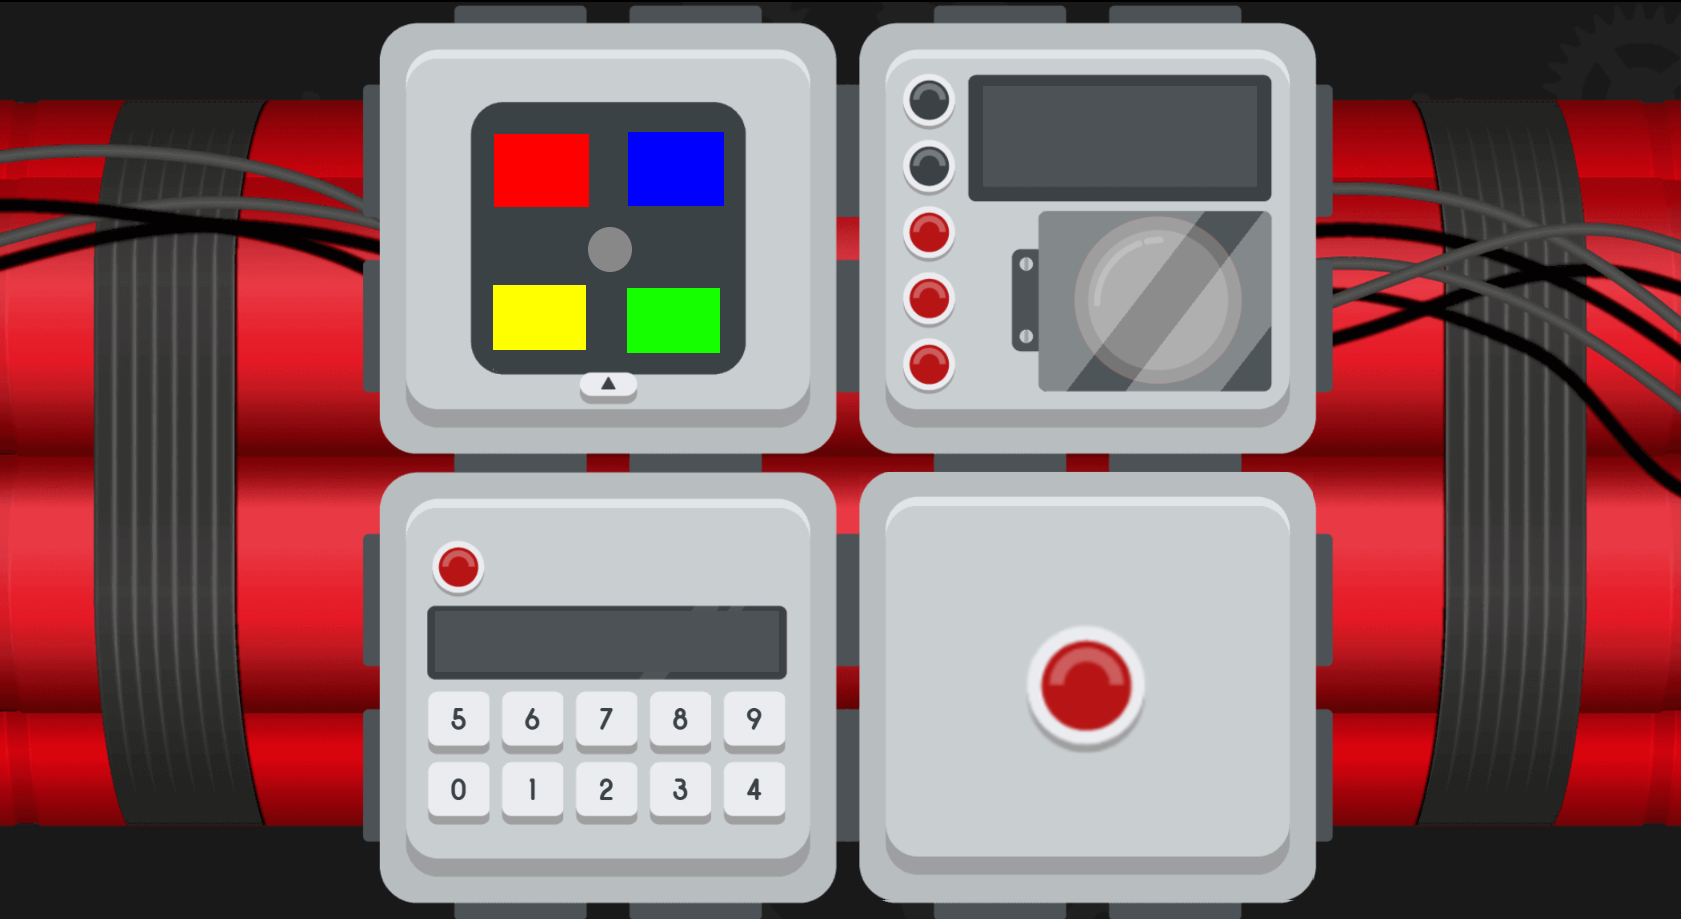
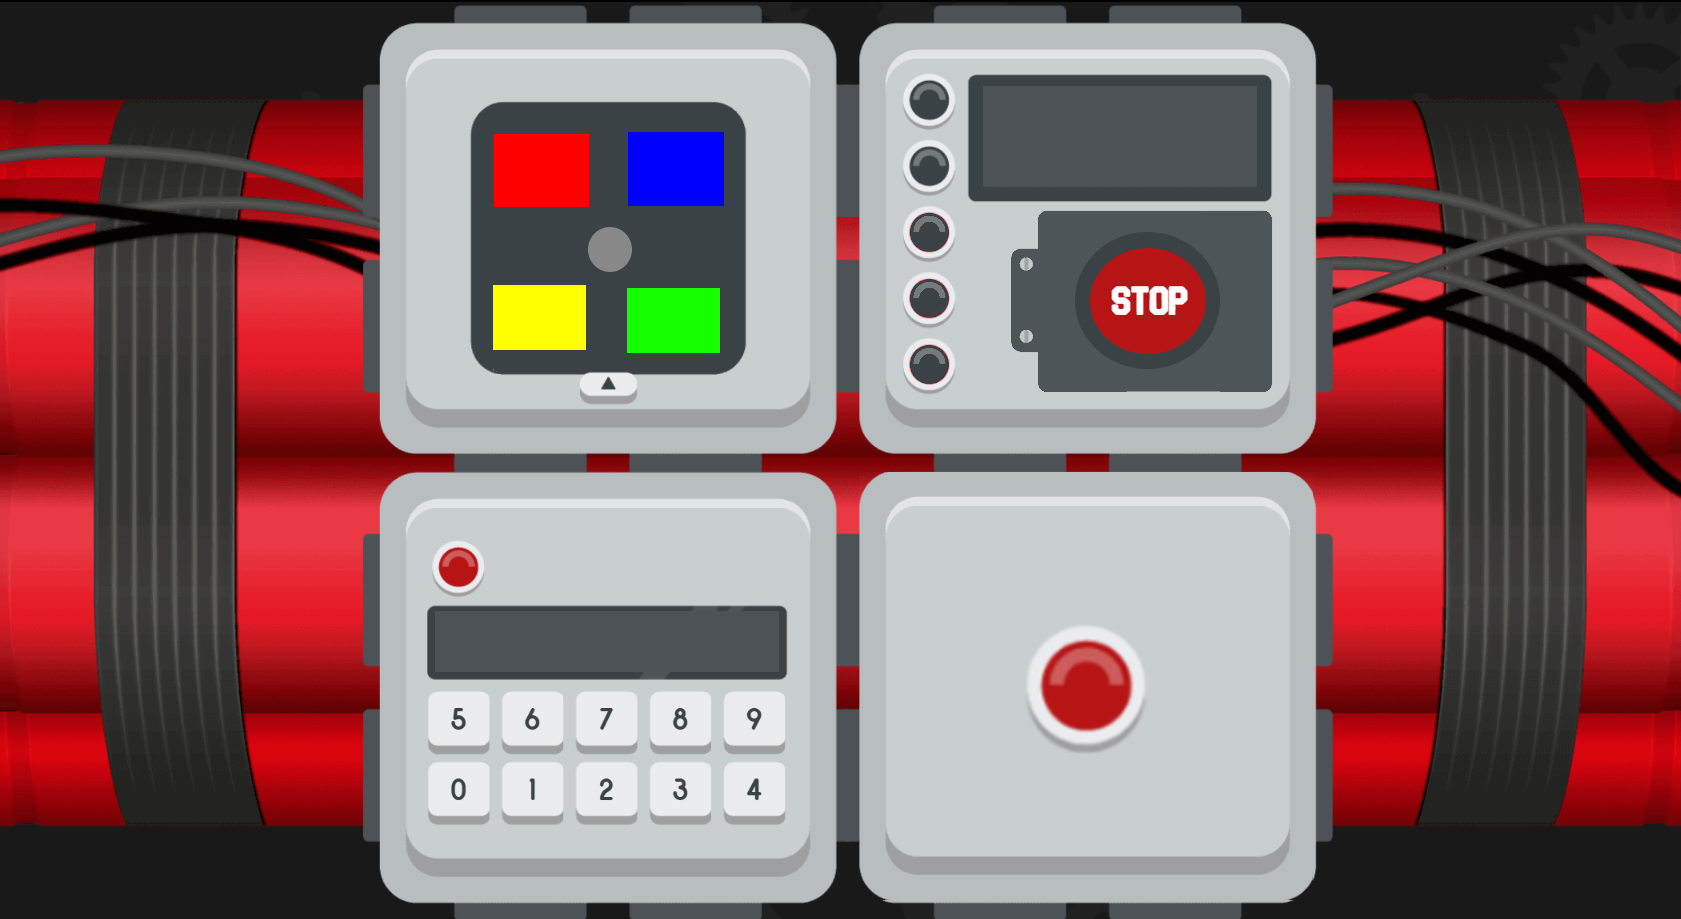
Update Codice Disinnesco
-Aggiunta immagine esplosione

Changed region(s): [[0.6187, 0.2133, 0.7733, 0.4266], [0.5259, 0.3047, 0.5877, 0.4266], [0.5259, 0.2133, 0.5877, 0.2742]]

diff --git a/DisinnescoBomba/core/src/main/java/io/github/some_example_name/Level.java b/DisinnescoBomba/core/src/main/java/io/github/some_example_name/Level.java
@@ -1,0 +1,41 @@
+package io.github.some_example_name;
+
+public class Level {
+
+    private int codiceDisinnesco;
+    private String coloreDisinnesco;
+    private boolean lampeggiante;
+    private int luciAccese;
+
+    public int getCodiceDisinnesco() {
+        return codiceDisinnesco;
+    }
+
+    public void setCodiceDisinnesco(int codiceDisinnesco) {
+        this.codiceDisinnesco = codiceDisinnesco;
+    }
+
+    public String getColoreDisinnesco() {
+        return coloreDisinnesco;
+    }
+
+    public void setColoreDisinnesco(String coloreDisinnesco) {
+        this.coloreDisinnesco = coloreDisinnesco;
+    }
+
+    public boolean isLampeggiante() {
+        return lampeggiante;
+    }
+
+    public void setLampeggiante(boolean lampeggiante) {
+        this.lampeggiante = lampeggiante;
+    }
+
+    public int getLuciAccese() {
+        return luciAccese;
+    }
+
+    public void setLuciAccese(int luciAccese) {
+        this.luciAccese = luciAccese;
+    }
+}

diff --git a/DisinnescoBomba/core/src/main/java/io/github/some_example_name/Level1.java b/DisinnescoBomba/core/src/main/java/io/github/some_example_name/Level1.java
@@ -1,0 +1,15 @@
+package io.github.some_example_name;
+
+public class Level1 extends Level {
+
+    public Level1() {
+
+        setCodiceDisinnesco(1234);
+
+        setColoreDisinnesco("Rosso");
+
+        setLampeggiante(true);
+
+        setLuciAccese(3);
+    }
+}

diff --git a/DisinnescoBomba/core/src/main/java/io/github/some_example_name/Main.java b/DisinnescoBomba/core/src/main/java/io/github/some_example_name/Main.java
@@ -38,6 +38,7 @@ public class Main extends ApplicationAdapter {
     private int countNumbers;
     private Texture RedButtonOn;
     private Texture RedButtonOff;
+    private Texture explosion;
     private double redButtonTimer;
     private boolean redButtonisOn;
 
@@ -49,6 +50,7 @@ public class Main extends ApplicationAdapter {
         background = new Texture("background.png");
         RedButtonOn = new Texture("RedButtonOn.png");
         RedButtonOff = new Texture("RedButtonOff.png");
+        explosion = new Texture("explosionBomb.gif");
         dotBounds =new Rectangle(dotX, dotY,10,10);
         colorRectanglebounds =new Rectangle(484, 558, 250,245);
         redRectanglebounds=new Rectangle(491, 711, 95,77);
@@ -58,7 +60,7 @@ public class Main extends ApplicationAdapter {
         font = new BitmapFont();
         font.setColor(Color.RED);
         font.getData().setScale(5f);
-        timer=10;
+        timer=5000;
         redButtonTimer=2;
         redButtonisOn= false;
         inputCodice="";
@@ -190,6 +192,9 @@ public class Main extends ApplicationAdapter {
         batch.draw(RedButtonOn, 1015,162);
         }else {
             batch.draw(RedButtonOff, 1015, 162);
+        }
+        if(timer==0){
+            batch.draw(explosion, 0, 0, 1681,919);
         }
         batch.end();
         shapeRenderer.begin(ShapeRenderer.ShapeType.Filled);